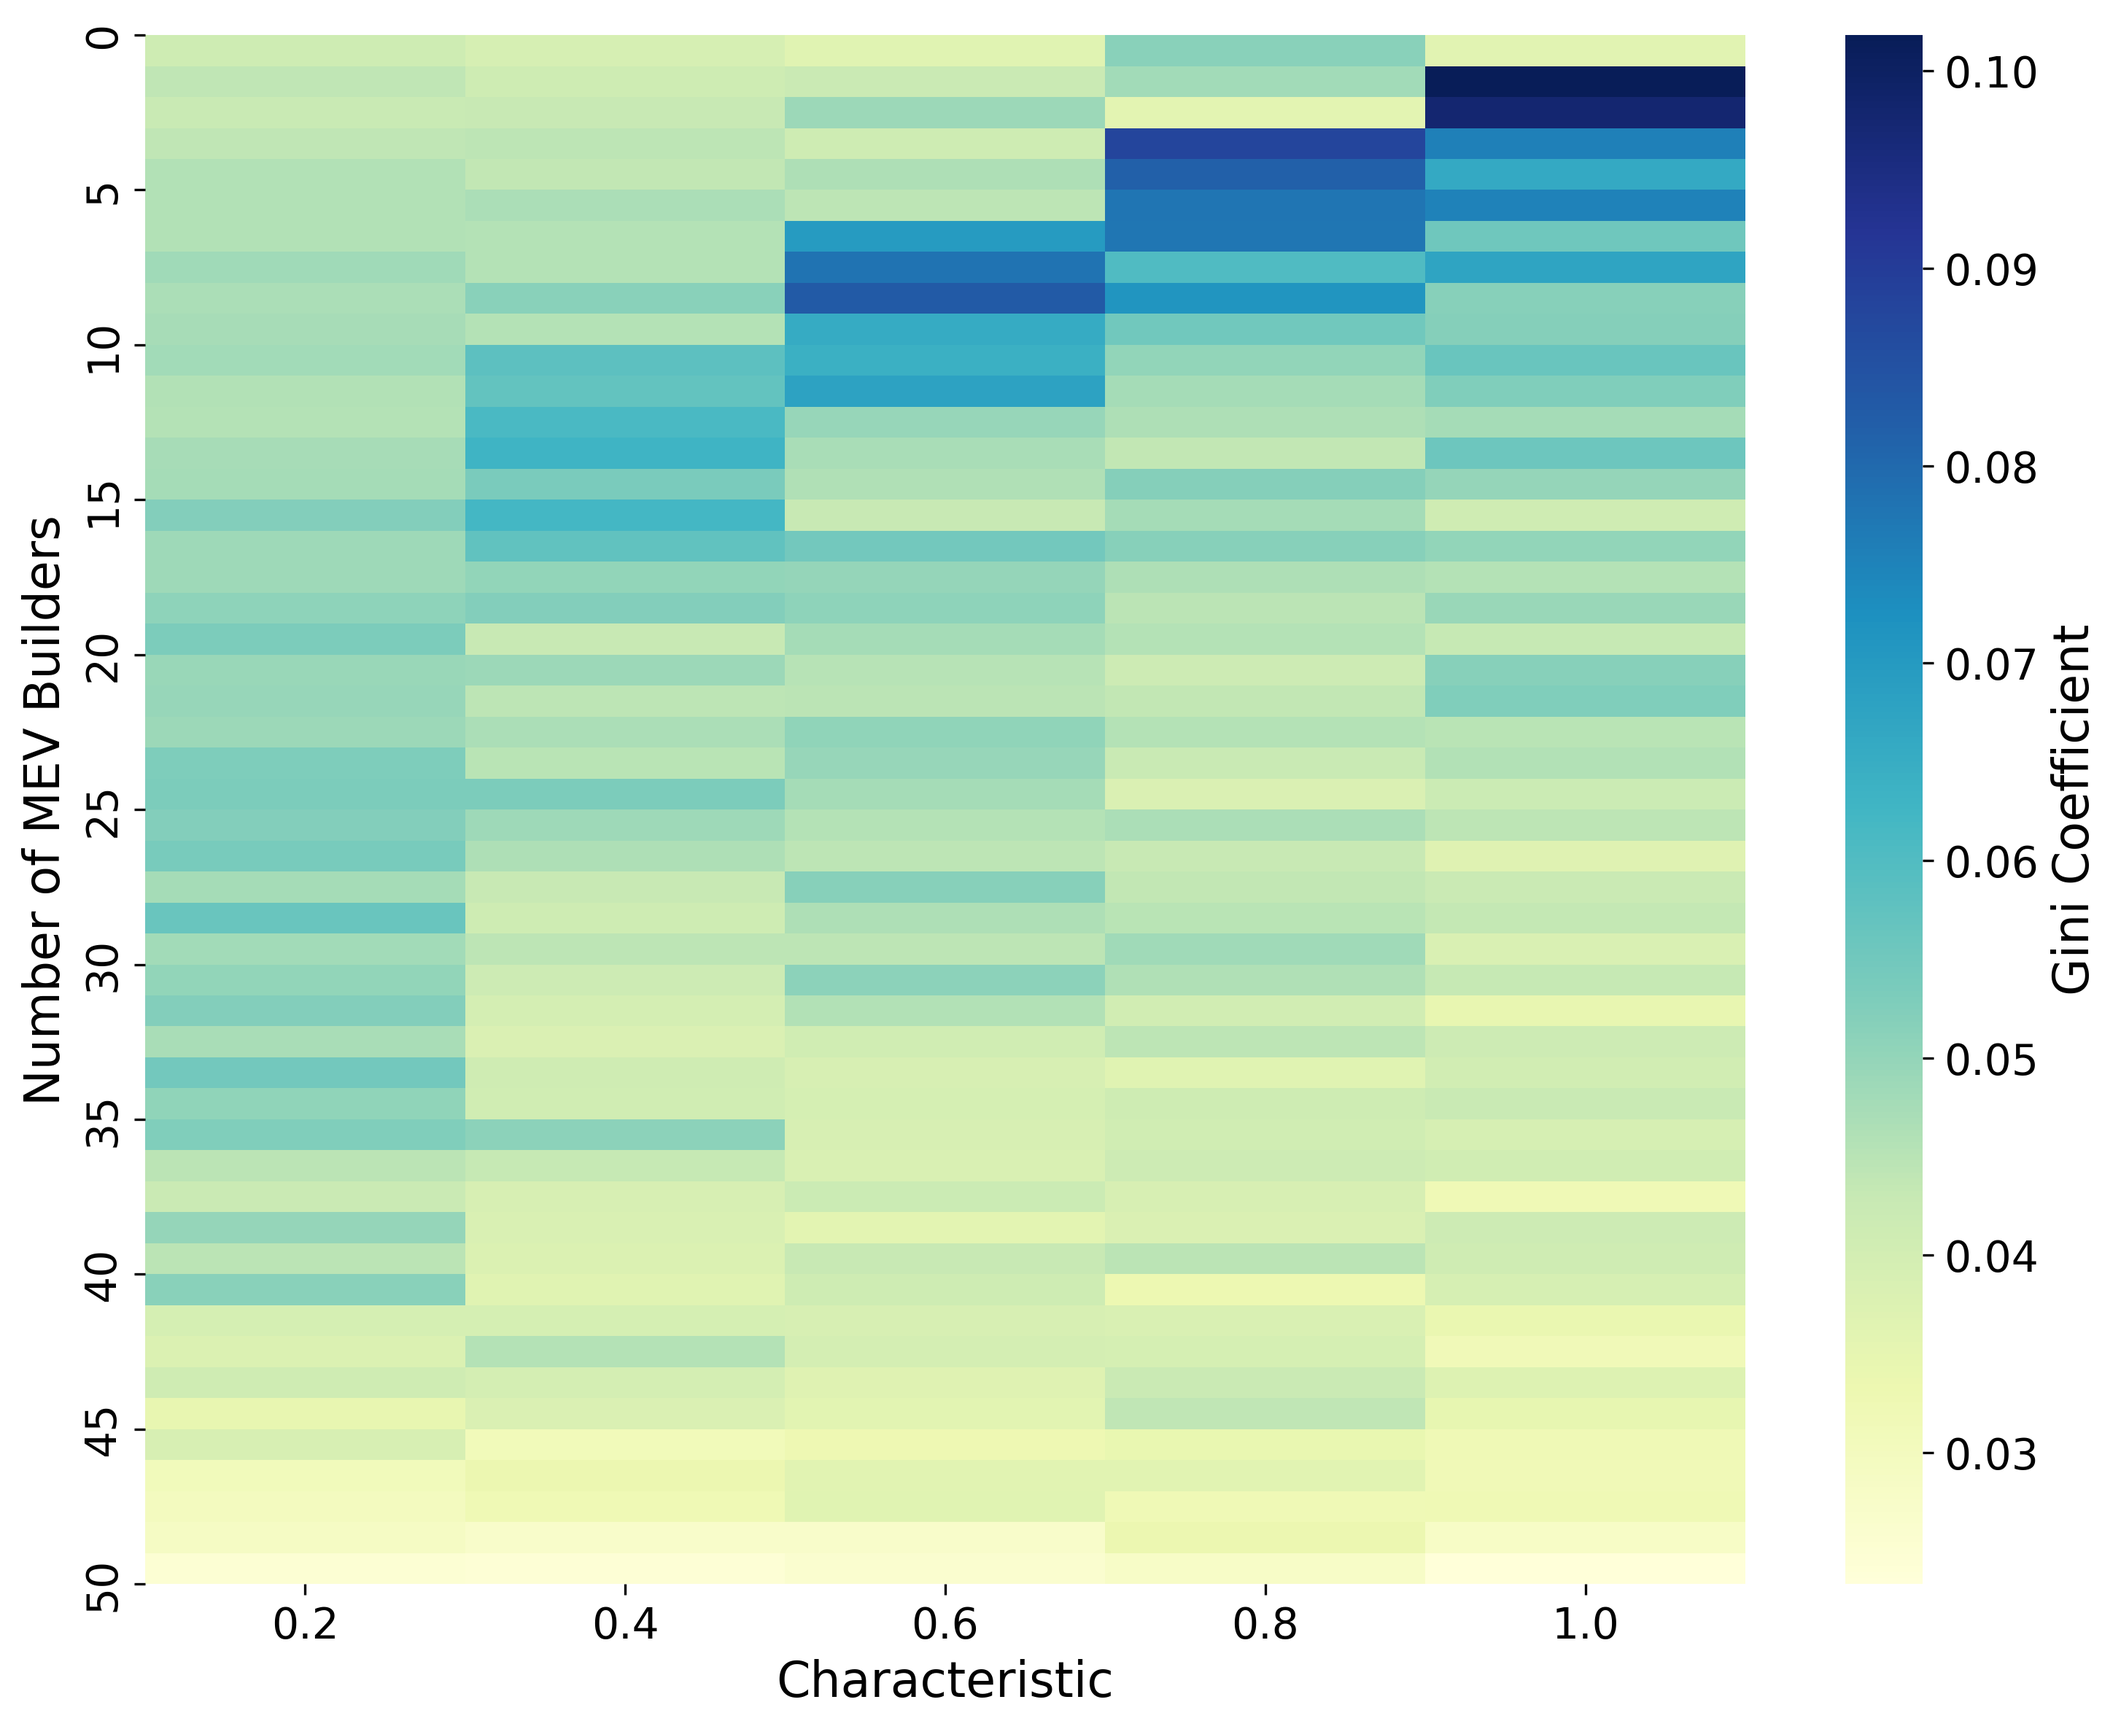
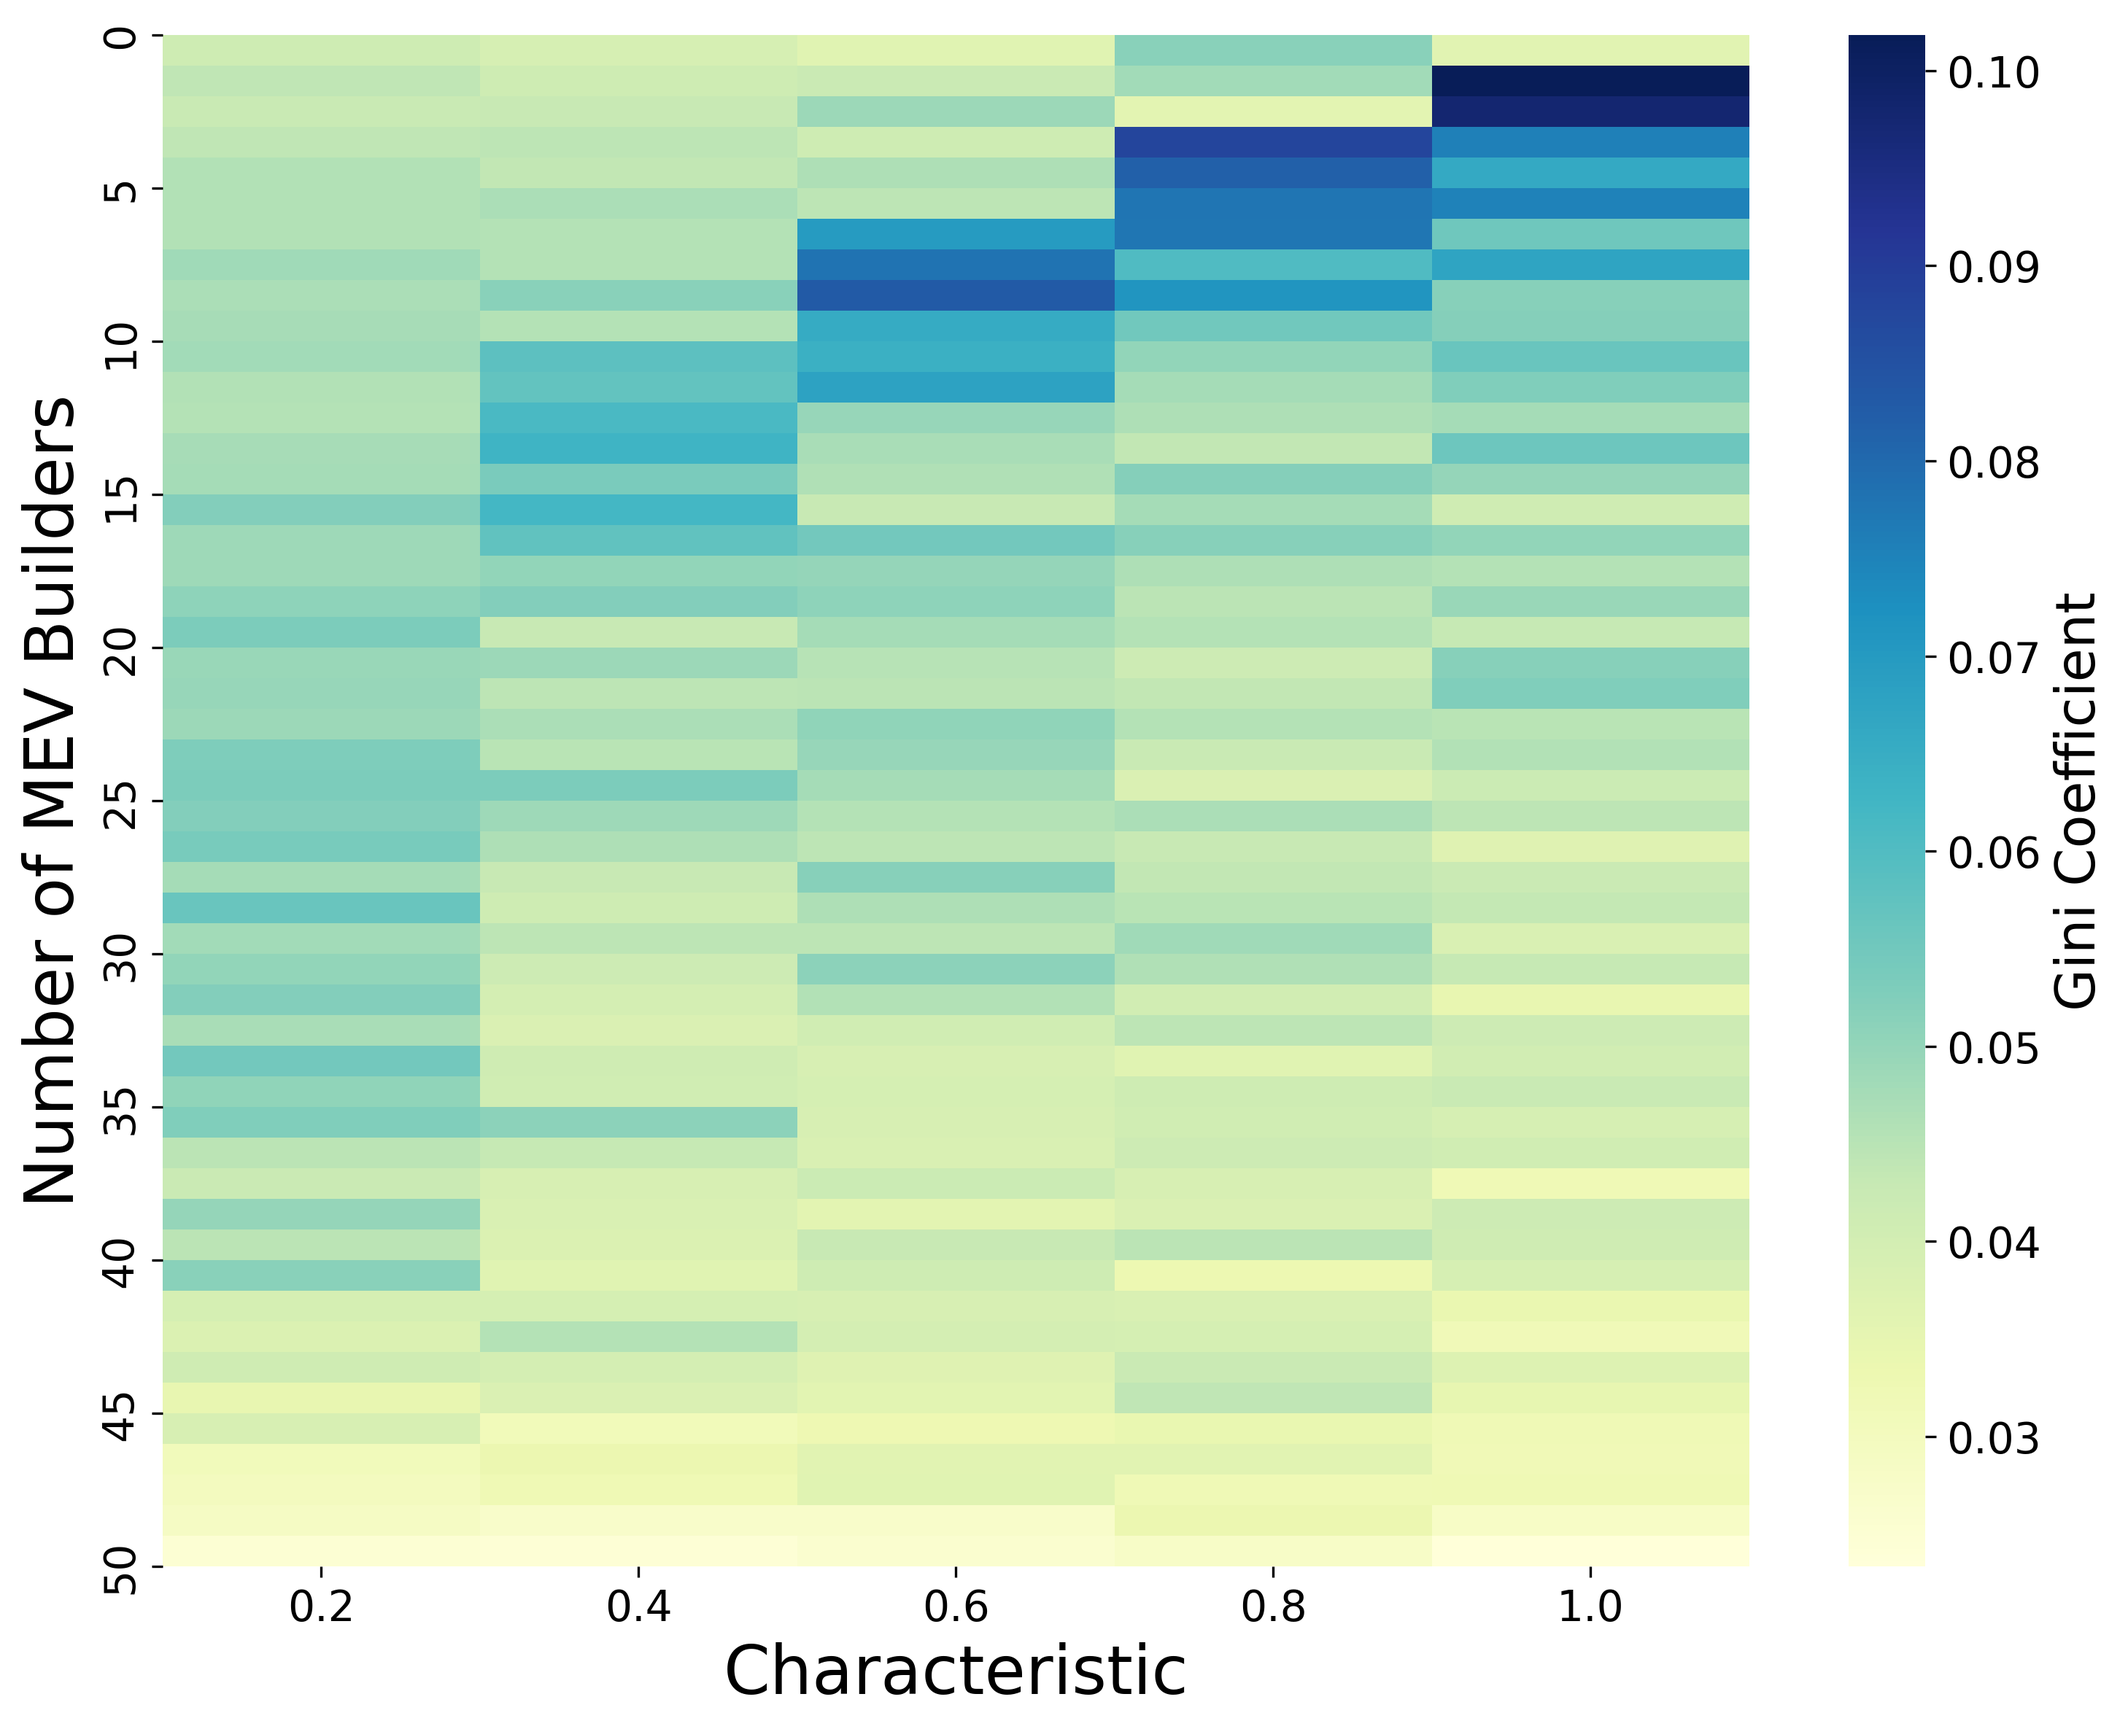
gini

diff --git a/plots/builder_proposer.py b/plots/builder_proposer.py
@@ -37,14 +37,14 @@ def plot_heatmap(data, save_path):
     plt.figure(figsize=(10, 8))
     sns.heatmap(pivot, cmap="YlGnBu", cbar_kws={'label': 'Gini Coefficient'}, annot=False)
     
-    plt.xlabel('Characteristic', fontsize=16)
-    plt.ylabel('Number of MEV Builders', fontsize=16)
+    plt.xlabel('Characteristic', fontsize=22)
+    plt.ylabel('Number of MEV Builders', fontsize=22)
     plt.xticks(fontsize=14)
     plt.yticks(fontsize=14)
     
     cbar = plt.gcf().axes[-1]
     cbar.tick_params(labelsize=14)
-    cbar.set_ylabel('Gini Coefficient', fontsize=16)
+    cbar.set_ylabel('Gini Coefficient', fontsize=18)
     
     # Adjust y-axis ticks to show numbers
     y_ticks = np.arange(0, pivot.index.max() + 1, 5)
